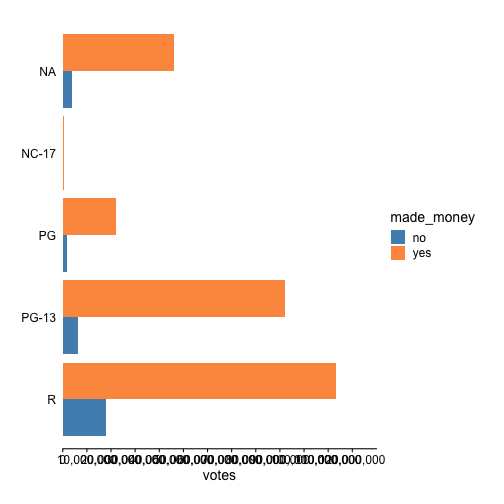
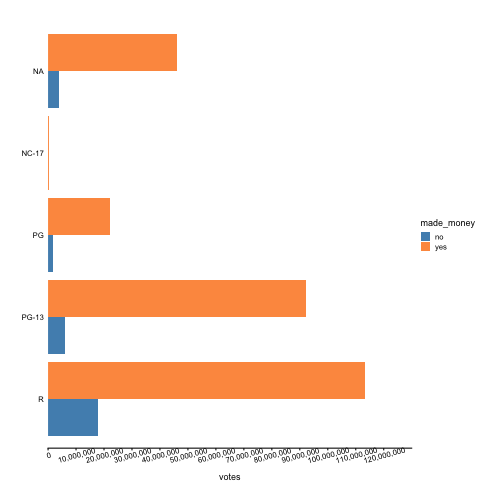
no message

diff --git a/manuscript/04-03-horizontal-barplot-n-lollipop.md b/manuscript/04-03-horizontal-barplot-n-lollipop.md
@@ -79,7 +79,8 @@ rotate_axis_text(p, 10)
 
 A>
 ```r
-plt("votes", "mpaa", fillby = "made_money", label_size = 0)
+p = plt("votes", "mpaa", fillby = "made_money", label_size = 0, font_size = 9)
+rotate_axis_text(p, 15)
 ```
 
 ![Votes of Profitable and Unprofitable Films for each MAPP rating](images/barploth_dodged_p3-1.png)
@@ -120,6 +121,7 @@ df = read.csv(text="category,pct
 df$category = reorder(df$category, df$pct)
 str(df)
 ```
+
 A>
 ```
 'data.frame':	21 obs. of  2 variables:
